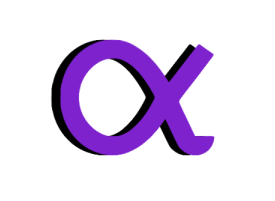
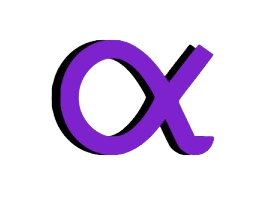
Login Screen

diff --git a/alpha/lib/screens/auth/login_screen.dart b/alpha/lib/screens/auth/login_screen.dart
@@ -1,0 +1,184 @@
+import 'package:alpha/main.dart';
+import 'package:flutter/material.dart';
+
+class LoginScreen extends StatefulWidget {
+  const LoginScreen({Key? key}) : super(key: key);
+
+  @override
+  State<LoginScreen> createState() => _LoginScreenState();
+}
+
+class _LoginScreenState extends State<LoginScreen> {
+  @override
+  Widget build(BuildContext context) {
+    mq = MediaQuery.of(context).size;
+    return Scaffold(
+      body: Container(
+        width: double.infinity,
+        decoration: BoxDecoration(
+          gradient: LinearGradient(
+            begin: Alignment.topCenter,
+            colors: [
+              Color.fromARGB(255, 80, 38, 207)!,
+              Colors.deepPurple[500]!,
+              Color.fromARGB(255, 135, 83, 224)!,
+            ],
+          ),
+        ),
+        child: Stack(
+          children: [
+            Column(
+              crossAxisAlignment: CrossAxisAlignment.start,
+              children: <Widget>[
+                SizedBox(
+                  height: 300,
+                ),
+                Expanded(
+                  child: Container(
+                    decoration: BoxDecoration(
+                      color: Colors.white,
+                      borderRadius: BorderRadius.only(
+                        topLeft: Radius.circular(60),
+                        topRight: Radius.circular(60),
+                      ),
+                    ),
+                    child: Padding(
+                      padding: EdgeInsets.all(10),
+                      child: Column(
+                        mainAxisAlignment: MainAxisAlignment.center,
+                        children: <Widget>[
+                          Padding(
+                            padding: EdgeInsets.all(20),
+                            child: Column(
+                              crossAxisAlignment: CrossAxisAlignment.start,
+                              children: <Widget>[
+                                Text(
+                                  "Login",
+                                  style: TextStyle(
+                                    color: Colors.deepPurple,
+                                    fontSize: 40,
+                                    fontWeight: FontWeight.bold,
+                                  ),
+                                ),
+                                SizedBox(
+                                  height: 10,
+                                ),
+                                Text(
+                                  "Welcome to Realtime Translation Alpha",
+                                  style: TextStyle(
+                                    color: Colors.deepPurple,
+                                    fontSize: 20,
+                                  ),
+                                ),
+                              ],
+                            ),
+                          ),
+                          Container(
+                            padding: EdgeInsets.all(10),
+                            decoration: BoxDecoration(
+                              border: Border(
+                                bottom: BorderSide(
+                                  color:
+                                      const Color.fromARGB(255, 179, 165, 165),
+                                ),
+                              ),
+                            ),
+                            child: Row(
+                              children: [
+                                Icon(
+                                  Icons.phone,
+                                  color: Colors.grey,
+                                ),
+                                SizedBox(width: 10),
+                                Expanded(
+                                  child: TextField(
+                                    keyboardType: TextInputType.number,
+                                    decoration: InputDecoration(
+                                      hintText: "Your Phone Number",
+                                      hintStyle: TextStyle(color: Colors.grey),
+                                      border: InputBorder.none,
+                                    ),
+                                  ),
+                                ),
+                              ],
+                            ),
+                          ),
+                          SizedBox(height: 40),
+                          Padding(
+                            padding: EdgeInsets.only(left: 200),
+                            child: ElevatedButton.icon(
+                              style: ElevatedButton.styleFrom(
+                                backgroundColor:
+                                    const Color.fromARGB(255, 53, 147, 56),
+                                shape: StadiumBorder(),
+                                elevation: 1,
+                              ),
+                              onPressed: () {},
+                              icon: Image.asset(
+                                'images/next.png',
+                                height: mq.height * 0.03,
+                                color: Colors.white,
+                              ),
+                              label: Text(
+                                'Next',
+                                style: TextStyle(color: Colors.white),
+                              ),
+                            ),
+                          ),
+                        ],
+                      ),
+                    ),
+                  ),
+                ),
+              ],
+            ),
+            // Logo Positioned on Top
+            // Logo Positioned on Top
+            Positioned(
+              top: 80,
+              left: 80,
+              child: Container(
+                width: 200,
+                height: 200,
+                decoration: BoxDecoration(
+                  borderRadius: BorderRadius.circular(12),
+                  border: Border.all(
+                    color: Colors.black, // Adjust the border color as needed
+                    width: 2, // Adjust the border width as needed
+                  ),
+                  boxShadow: [
+                    BoxShadow(
+                      color: Colors.black.withOpacity(
+                          0.2), // Adjust the shadow color as needed
+                      spreadRadius: 2, // Adjust the spread radius of the shadow
+                      blurRadius: 4, // Adjust the blur radius of the shadow
+                      offset: Offset(0, 2), // Adjust the shadow offset
+                    ),
+                  ],
+                ),
+                child: Image.asset(
+                  'images/Alpha.PNG', // Replace with the actual path to your logo image
+                  width: 200,
+                  height: 200,
+                ),
+              ),
+            ),
+// Label Positioned below the Logo
+            Positioned(
+              top: 230,
+              left: 150,
+              child: Text(
+                'Alpha', // Replace with your actual label text
+                style: TextStyle(
+                  color: Colors.white,
+                  fontSize: 22,
+                  fontWeight: FontWeight.bold,
+                ),
+              ),
+            ),
+          ],
+        ),
+      ),
+    );
+  }
+}

diff --git a/alpha/lib/main.dart b/alpha/lib/main.dart
@@ -1,7 +1,10 @@
 import 'package:flutter/material.dart';
 
+import 'Screens/auth/login_screen.dart';
 import 'screens/home_screen.dart';
 
+//global object for accessing device screen size
+late Size mq;
 void main() {
   runApp(const MyApp());
 }
@@ -14,16 +17,16 @@ class MyApp extends StatelessWidget {
     return MaterialApp(
         title: 'Alpha',
         theme: ThemeData(
-          appBarTheme: AppBarTheme(
-            centerTitle: true,
-            elevation: 1,
-            iconTheme: IconThemeData(color: Colors.white),
-            titleTextStyle: TextStyle(
-                color: Colors.white, fontWeight: FontWeight.bold, fontSize: 19),
-            backgroundColor: Color(0xFF7E22CE),
-          ),
-          useMaterial3: true,
-        ),
-        home: const HomeScreen());
+            // appBarTheme: AppBarTheme(
+            //   centerTitle: true,
+            //   elevation: 1,
+            //   iconTheme: IconThemeData(color: Colors.white),
+            //   titleTextStyle: TextStyle(
+            //       color: Colors.white, fontWeight: FontWeight.bold, fontSize: 19),
+            //   backgroundColor: Color(0xFF7E22CE),
+            // ),
+            // useMaterial3: true,
+            ),
+        home: const LoginScreen());
   }
 }
